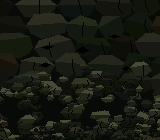
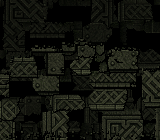
Art: cave-in rubble rebuilt from real wall_front blocks (chipped chunks, flips/rot90 only, skyline-stacked pile, wall palette, opaque) + stringy dust burst with crash-relative timing; fx atlas repacked

diff --git a/scripts/build_cave_in.py b/scripts/build_cave_in.py
@@ -1,82 +1,158 @@
 # Cave-in rubble front wall (near/mid/far) + 6-frame dust burst. Deterministic.
+# Rubble = real carved blocks cut out of wall_front_<dist>.png (whole blocks with their
+# mortar edges/shading), chipped into irregular chunks, only flipped / rot90'd (no
+# resampling), stacked into a collapse. Every pixel is a wall_front colour; fully opaque.
 import os,random,math
 os.chdir(os.path.join(os.path.dirname(os.path.abspath(__file__)),'..'))
-from PIL import Image,ImageDraw
+from PIL import Image
+import numpy as np
 D='public/art/dungeon_v2/'
-def pal(f):
-    cs={c[:3] for _,c in Image.open(f).convert('RGBA').getcolors(99999)}
-    cs=[c for c in cs if max(c)-min(c)<=24 and not (c[2]>c[1] or c[0]>c[1]+4)]  # drop tinted outliers
-    return sorted(cs,key=lambda c:sum(c))
-def lum(c): return sum(c)
-def build(W,H,seed,detail):
-    r=random.Random(seed); P=pal(D+'wall_plain.png') if False else None
-    im=Image.new('RGB',(W,H),(64,64,64)); d=ImageDraw.Draw(im)
-    s=W/160
-    # shade levels as indexes into a 0..1 brightness ramp, mapped later to palette
-    def rock(cx,cy,rw,rh,base,jag):
-        n=r.randint(6,9); pts=[]
+# source blocks in near-space (160x140) coords: x0,y0,x1,y1
+BLOCKS={'cap':[(0,0,32,24),(128,0,160,24)],
+ 'frieze':[(32,0,80,22),(80,0,128,22)],
+ 'stud':[(2,22,30,32),(130,22,158,32)],
+ 'pillar':[(3,32,29,74),(3,74,29,116),(131,32,157,74),(131,74,157,116)],
+ 'panel':[(34,26,80,71),(80,26,126,71),(34,71,80,116),(80,71,126,116)],
+ 'brick':[(32+12*i,114,44+12*i,126) for i in range(8)],
+ 'base':[(0,125,40,140),(40,125,80,140),(80,125,120,140),(120,125,160,140)]}
+def build(dist,seed):
+    src=np.array(Image.open(D+f'wall_front_{dist}.png').convert('RGB')).astype(int)
+    H,W=src.shape[:2]; s=W/160; r=random.Random(seed)
+    P=np.unique(src.reshape(-1,3),axis=0); Pl=P.sum(1)
+    order=np.argsort(Pl); dark=P[order[0]]; dark2=P[order[min(3,len(P)-1)]]
+    def quant(img):  # snap to nearest wall colour
+        f=img.reshape(-1,1,3); i=((f-P[None])**2).sum(2).argmin(1); return P[i].reshape(img.shape)
+    def shade(img,k): return quant(np.clip(img*k,0,255))
+    def cut(rect):
+        x0,y0,x1,y1=[int(round(v*s)) for v in rect]; return src[y0:y1,x0:x1].copy()
+    def chunk(blk,minfrac=.45):
+        h,w=blk.shape[:2]
+        # break off a random sub-piece (keeps at least one original mortar edge)
+        cw=max(2,int(w*r.uniform(minfrac,1))); ch=max(2,int(h*r.uniform(minfrac,1)))
+        x=r.choice([0,w-cw]); y=r.choice([0,h-ch]); b=blk[y:y+ch,x:x+cw]
+        m=np.ones(b.shape[:2],bool); h,w=m.shape
+        for cx,cy in ((0,0),(1,0),(0,1),(1,1)):        # chipped corners
+            if r.random()<.7:
+                a=r.randint(1,max(1,min(w,h)//2)); bb=r.randint(1,max(1,min(w,h)//2))
+                for yy in range(bb):
+                    for xx in range(int(a*(1-yy/bb))):
+                        m[h-1-yy if cy else yy, w-1-xx if cx else xx]=False
+        side=r.randrange(4); depth=max(1,min(w,h)//5); v=0   # jagged break edge
+        n=w if side<2 else h
         for i in range(n):
-            a=2*math.pi*i/n+r.uniform(-.25,.25); k=r.uniform(1-jag,1)
-            pts.append((cx+math.cos(a)*rw*k,cy+math.sin(a)*rh*k))
-        d.polygon(pts,fill=(int(base*0.55*255),)*3)          # shadow body
-        d.polygon([(x-1*s,y-1*s) for x,y in pts],fill=(int(base*255),)*3)
-        # lit top-left facet
-        top=[p for p in pts if p[1]<cy+rh*0.1]
-        if len(top)>2: d.polygon([(x-1*s,y-1*s) for x,y in top],fill=(int(min(1,base*1.35)*255),)*3)
-        if detail and rw>6*s and r.random()<.6:  # crack
-            x0=cx+r.uniform(-rw,rw)*.4; y0=cy-rh*.5
-            d.line([(x0,y0),(x0+r.uniform(-3,3)*s,cy),(x0+r.uniform(-4,4)*s,cy+rh*.5)],fill=(20,20,20),width=1)
-    # 1) broken wall: big tilted blocks over upper/mid area, with dark gaps between
-    rows=[(-4,22),(16,24),(36,24),(56,24),(74,22)]
-    for y0,h in rows:
-        x=-r.randint(4,20)
-        while x<W/s+10:
-            w=r.randint(24,42)
-            rock((x+w/2)*s,(y0+h/2+r.uniform(-2,2))*s,(w/2+2)*s,(h/2+2)*s,r.uniform(.4,.7),.1)
-            x+=w+r.randint(0,2)
-    # a few deep dark gaps (no light)
-    for _ in range(5 if detail else 3):
-        gx,gy=r.uniform(15,145),r.uniform(8,70); gw,gh=r.uniform(3,7),r.uniform(2,4)
-        d.polygon([((gx-gw)*s,gy*s),(gx*s,(gy-gh)*s),((gx+gw)*s,(gy+r.uniform(-1,1))*s),(gx*s,(gy+gh)*s)],fill=(0,0,0))
-    # 2) fallen blocks
-    for _ in range(int(7)):
-        rock(r.uniform(10,150)*s,r.uniform(70,95)*s,r.uniform(9,18)*s,r.uniform(7,12)*s,r.uniform(.5,.85),.3)
-    # 3) sloped pile: higher in middle, spreading full width onto floor
-    for _ in range(int(140*(1 if detail else .5))):
-        x=r.uniform(-5,165); top=95-28*math.exp(-((x-80)/55)**2)
-        y=r.uniform(top,H/s+2); sz=r.uniform(3,7)+(y-top)*0.05
-        rock(x*s,y*s,sz*s,sz*.7*s,r.uniform(.4,.95),.35)
-    # pebbles spilling onto floor (bottom strip)
-    for _ in range(int(60*(1 if detail else .4))):
-        x=r.uniform(0,160); y=r.uniform(128,140)
-        rock(x*s,y*s,r.uniform(1,2.5)*s,r.uniform(.8,1.6)*s,r.uniform(.3,.7),.2)
-    return im
-def to_pal(gray,target):
-    P=pal(target); n=len(P); out=Image.new('RGBA',gray.size)
-    px=gray.load(); o=out.load()
-    for y in range(gray.height):
-        for x in range(gray.width):
-            v=(px[x,y][0]/255)**1.35; o[x,y]=P[min(n-1,int(v*(n-1)+.5))]+(255,)
-    return out
-for dist,seed,det in (('near',7,1),('mid',7,1),('far',7,0)):
-    ref=D+f'wall_front_{dist}.png'; W,H=Image.open(ref).size
-    g=build(W,H,seed,det); to_pal(g,ref).save(D+f'rubble_front_{dist}.png')
-# dust burst, 160x140, dust.png palette (two tones, alpha in 17-steps)
+            v=max(0,min(depth,v+r.choice((-1,0,1))))
+            if side==0: m[:v,i]=False
+            elif side==1: m[h-v:,i]=False
+            elif side==2: m[i,:v]=False
+            else: m[i,w-v:]=False
+        k=r.randrange(4); b=np.rot90(b,k); m=np.rot90(m,k)
+        if r.random()<.5: b=b[:,::-1]; m=m[:,::-1]
+        return b,m
+    out=np.zeros_like(src); out[:]=dark
+    # back layer: the collapsed mass behind, darker, many small chunks jammed together
+    def place(b,m,x,y,k=1.0,outline=True):
+        h,w=m.shape; b=shade(b,k) if k!=1 else b
+        if outline:  # dark crack ring under the chunk, offset down-right (shadow)
+            for dx,dy in ((1,1),(1,0),(0,1)):
+                ys,xs=np.nonzero(m); ys=ys+y+dy; xs=xs+x+dx
+                ok=(ys>=0)&(ys<H)&(xs>=0)&(xs<W); out[ys[ok],xs[ok]]=dark
+        ys,xs=np.nonzero(m); c=b[ys,xs]; ys=ys+y; xs=xs+x
+        ok=(ys>=0)&(ys<H)&(xs>=0)&(xs<W); out[ys[ok],xs[ok]]=c[ok]
+    allb=[cut(b) for v in BLOCKS.values() for b in v]
+    big=[cut(b) for k in ('panel','pillar','frieze','cap') for b in BLOCKS[k]]
+    small=[cut(b) for k in ('brick','stud','base','cap','frieze') for b in BLOCKS[k]]
+    def top(x): return H*(0.30+0.75*abs(x/W-0.5)**1.5)   # pile surface: high centre, spreads wide at the base
+    # 1) back mass: dim chunks packed edge to edge over the whole square (stone deeper in the corridor)
+    y=-2
+    while y<H:
+        x=-r.randint(0,8); rowh=0
+        while x<W:
+            b,m=chunk(r.choice(allb),.5); h,w=m.shape
+            place(b,m,x,y+r.randint(-1,1),r.uniform(.48,.6)); x+=w-r.randint(0,2); rowh=max(rowh,h)
+        y+=max(3,int(rowh*.7))
+    # 2) front pile, stacked with a skyline: each chunk drops until it rests on what is below it.
+    surf=np.full(W,H+int(2*s))
+    def drop(b,m,x,k):
+        h,w=m.shape; cols=[c for c in range(w) if 0<=x+c<W and m[:,c].any()]
+        if not cols: return False
+        low={c:np.nonzero(m[:,c])[0].max() for c in cols}; hi_={c:np.nonzero(m[:,c])[0].min() for c in cols}
+        y=min(surf[x+c]-low[c]-1 for c in cols)+int(s)   # sink 1px: chunks bite into each other
+        if y+min(hi_.values())<min(top(x+c) for c in cols)-2*s: return False   # above pile outline
+        place(b,m,x,y,k)
+        for c in cols: surf[x+c]=min(surf[x+c],y+hi_[c])
+        return True
+    pieces=[]
+    for _ in range(14): pieces.append((0,chunk(r.choice(big),.55)))
+    for _ in range(40): pieces.append((1,chunk(r.choice(big),.3)))
+    for _ in range(90): pieces.append((2,chunk(r.choice(small),.35)))
+    pieces.sort(key=lambda p:(p[0],-p[1][1].sum()))
+    for tier,(b,m) in pieces:
+        w=m.shape[1]
+        for _try in range(6):
+            x=int(r.uniform(-.15,1.0)*W-w*.3)
+            if drop(b,m,x,[1.15,1.08,1.12][tier]*r.uniform(.93,1.05)): break
+    # 3) grit: 1-3px crumbs of wall pixels lying on the pile surface and spilled on the floor
+    for _ in range(int(160*s)):
+        x=r.randrange(W); g=max(1,int(r.uniform(1,2.6)*s+.4))
+        y=int(min(H-1,surf[x]+r.uniform(-1,1)*s)) if r.random()<.6 else int(H-r.uniform(1,8)*s)
+        sx=r.randrange(W-g); sy=r.randrange(H-g); gg=src[sy:sy+g,sx:sx+g]
+        place(gg,np.ones((g,g),bool),x,y-g+1,1.0,outline=True)
+    # 6) a few irregular dark cracks between blocks (no light through)
+    for _ in range(int(5+3*s)):
+        x=r.uniform(.1,.9)*W; y=r.uniform(.15,.85)*H; L=int(r.uniform(5,14)*s)
+        dx=r.choice((-1,1))
+        for i in range(L):
+            xi,yi=int(x),int(y)
+            if 0<=xi<W-1 and 0<=yi<H: out[yi,xi]=dark; 
+            if s>.7 and 0<=xi+1<W and 0<=yi<H and i%3: out[yi,xi+1]=dark
+            if r.random()<.6: y+=1
+            else: x+=dx
+            if r.random()<.15: dx=-dx
+    # match overall brightness to the wall
+    m0=src.mean(); m1=out.mean()
+    print(dist,'wall mean',round(m0,1),'rubble mean',round(m1,1))
+    # no global rescale (it flattens the depth); report the difference instead
+    a=np.dstack([out,np.full((H,W),255)]).astype(np.uint8)
+    Image.fromarray(a,'RGBA').save(D+f'rubble_front_{dist}.png')
+for dist,seed in (('near',11),('mid',12),('far',13)): build(dist,seed)
+# dust burst, 160x140: stringy smeared wisps drifting down/out, dust.png colours + 17-step alpha
 DUST=[(145,141,125),(188,184,168)]
 os.makedirs('public/proto3d/fx',exist_ok=True)
-r=random.Random(3); parts=[(r.uniform(25,135),r.uniform(70,125),r.uniform(-1.5,1.5),r.uniform(-1.6,-.3),r.uniform(18,30),r.random()<.35) for _ in range(34)]
-for f in range(6):
-    im=Image.new('RGBA',(160,140)); px=im.load(); t=(f+1)/6
-    life=[0.55,1,0.95,0.75,0.45,0.2][f]
-    for x0,y0,vx,vy,rad,hi in parts:
-        cx=x0+vx*f*5; cy=y0+vy*f*7+(f*f*0.3); R=rad*(0.45+t*0.9)
-        for y in range(int(cy-R),int(cy+R)+1):
-            for x in range(int(cx-R),int(cx+R)+1):
-                if 0<=x<160 and 0<=y<140:
-                    dd=math.hypot(x-cx,y-cy)/R
-                    if dd<1:
-                        a=(1-dd)*life*(0.8 if hi else 0.5)*255
-                        if (x+y+f)%2 and a<60: a*=0.6   # dither edges
-                        old=px[x,y][3]; a=min(221,max(old,int(a/17)*17))
-                        if a: px[x,y]=DUST[1 if hi and dd<.5 else 0]+(a,)
-    im.save(f'public/proto3d/fx/dust_burst_{f+1}.png')
+r=random.Random(5)
+# each wisp is a random-walk polyline from the collapse line, pushed out sideways and down
+wisps=[]
+for _ in range(64):
+    x=r.uniform(20,140); y=r.uniform(40,95); side=1 if x>80 else -1
+    wisps.append(dict(x=x,y=y,vx=side*r.uniform(.4,1.6),vy=r.uniform(.2,1.0),
+        ang=r.uniform(-.6,.6)+(0 if side>0 else math.pi),L=r.uniform(14,40),hi=r.random()<.3,seed=r.random()))
+def frame(f):
+    acc=np.zeros((140,160)); hi=np.zeros((140,160),bool)
+    life=[0.6,0.85,1.0,1.0,0.6,0.3][f]  # burst, burst, peak, peak, thin (skip still), thin
+    t=f/5
+    for w in wisps:
+        rr=random.Random(w['seed']+f*.0001*0)  # same shape each frame, just drifts/stretches
+        x=w['x']+w['vx']*f*5; y=w['y']+w['vy']*f*6+f*f*.4
+        ang=w['ang']+.25*math.sin(w['seed']*9); L=w['L']*(.5+t*1.1)
+        n=int(L)
+        for i in range(n):
+            ang+=rr.uniform(-.35,.35); x+=math.cos(ang); y+=math.sin(ang)*.5+.25+t*.3
+            fade=(1-i/n)**.7
+            th=1+int(rr.random()<.35)   # thin strings, occasional 2px smear
+            for k in range(th):
+                for j in range(-1-int(t*2),2+int(t*2)):   # horizontal smear widens over time
+                    xi=int(x+j); yi=int(y+k)
+                    if 0<=xi<160 and 0<=yi<140 and rr.random()<.75-abs(j)*.12:
+                        a=fade*life*(1-abs(j)*.25)*(0.85 if w['hi'] else 0.6)
+                        acc[yi,xi]=max(acc[yi,xi],a)
+                        if w['hi'] and abs(j)<1 and fade>.5: hi[yi,xi]=True
+    a=(np.clip(acc,0,221/255)*255/17).astype(int)*17
+    im=np.zeros((140,160,4),np.uint8)
+    for c,msk in ((DUST[0],~hi),(DUST[1],hi)):
+        sel=msk&(a>0); im[sel,:3]=c; im[sel,3]=a[sel]
+    Image.fromarray(im,'RGBA').save(f'public/proto3d/fx/dust_burst_{f+1}.png')
+for f in range(6): frame(f)
+# timing (t=0 at the crash; view turn 0-0.45 s)
+TIMING=[(1,0.0,'burst (during view turn)'),(2,0.2,'burst (during view turn)'),(3,0.45,'full cloud, peak as turn ends'),
+        (4,0.8,'full cloud'),(5,1.2,'thinning; also the still shown after a skip'),(6,1.6,'thinning, gone by ~2.0 s')]
+print('frame  start   phase')
+for n,t,p in TIMING: print(f'dust_burst_{n}  {t:4.2f} s  {p}')
